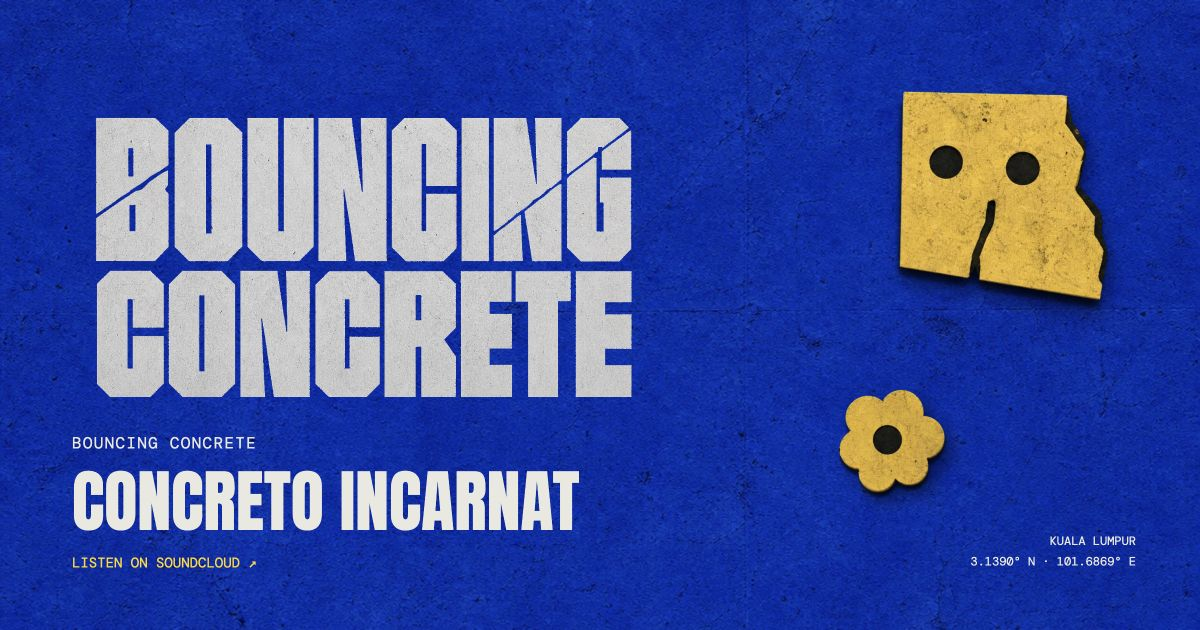
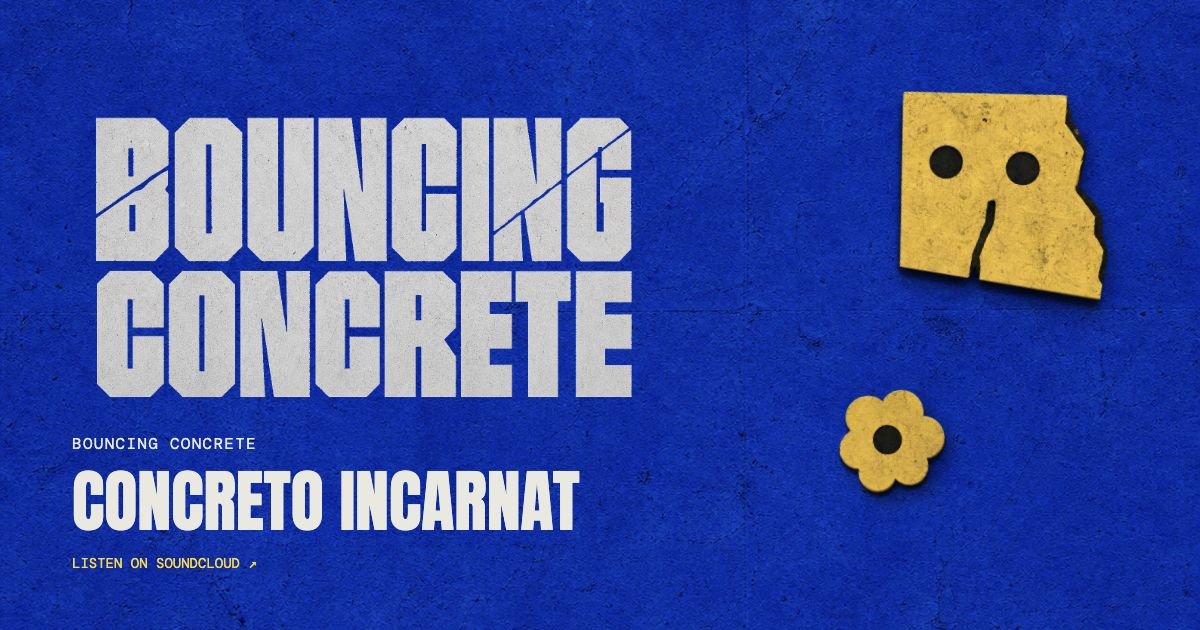
Keep artist location in footer only

diff --git a/scripts/social-card.html b/scripts/social-card.html
@@ -12,9 +12,8 @@
     .face{position:absolute;right:6%;top:9%;width:24%;transform:rotate(12deg);filter:drop-shadow(6px 10px 8px #0007)}
     .flower{position:absolute;right:19%;bottom:16%;width:13%;transform:rotate(-10deg);filter:drop-shadow(6px 10px 8px #0007)}
     .copy{position:absolute;left:72px;bottom:58px;z-index:2}.copy p{font-size:16px;letter-spacing:.08em;margin:0 0 14px}.copy h1{font-family:Anton,sans-serif;font-weight:400;text-transform:uppercase;font-size:72px;line-height:1;margin:0}.copy span{display:block;font-size:14px;margin-top:18px;color:#ffd900}
-    .location{position:absolute;right:64px;bottom:58px;text-align:right;font-size:12px;line-height:1.7}
-    @media(max-aspect-ratio:1/1){.card{padding:110px 84px}.wordmark{width:100%;max-width:none;margin-top:220px}.face{width:27%;top:7%;right:12%}.flower{width:21%;right:15%;bottom:30%}.copy{left:84px;bottom:300px;margin-bottom:0}.copy p{font-size:24px}.copy h1{font-size:118px}.copy span{font-size:25px}.location{bottom:90px;right:84px;font-size:20px}}
+    @media(max-aspect-ratio:1/1){.card{padding:110px 84px}.wordmark{width:100%;max-width:none;margin-top:220px}.face{width:27%;top:7%;right:12%}.flower{width:21%;right:15%;bottom:30%}.copy{left:84px;bottom:300px;margin-bottom:0}.copy p{font-size:24px}.copy h1{font-size:118px}.copy span{font-size:25px}}
   </style>
 </head>
-<body><main class="card"><img class="wordmark" src="/assets/wordmark-gritty.webp" alt="Bouncing Concrete"><img class="face" src="/assets/ornament-face.webp" alt=""><img class="flower" src="/assets/ornament-flower.webp" alt=""><div class="copy"><p>FEATURED TRACK</p><h1>Funkacaine</h1><span>LISTEN ON SOUNDCLOUD ↗</span></div><div class="location">KUALA LUMPUR<br>3.1390° N · 101.6869° E</div></main><script>const titles = {'funkacaine':'Funkacaine','concreto-incarnat':'Concreto Incarnat'}; const title=titles[new URLSearchParams(location.search).get('track')]; if(title){document.querySelector('h1').textContent=title;document.querySelector('.copy p').textContent='BOUNCING CONCRETE';document.querySelector('h1').style.fontSize='68px';}</script></body>
+<body><main class="card"><img class="wordmark" src="/assets/wordmark-gritty.webp" alt="Bouncing Concrete"><img class="face" src="/assets/ornament-face.webp" alt=""><img class="flower" src="/assets/ornament-flower.webp" alt=""><div class="copy"><p>FEATURED TRACK</p><h1>Funkacaine</h1><span>LISTEN ON SOUNDCLOUD ↗</span></div></main><script>const titles = {'funkacaine':'Funkacaine','concreto-incarnat':'Concreto Incarnat'}; const title=titles[new URLSearchParams(location.search).get('track')]; if(title){document.querySelector('h1').textContent=title;document.querySelector('.copy p').textContent='BOUNCING CONCRETE';document.querySelector('h1').style.fontSize='68px';}</script></body>
 </html>

diff --git a/src/App.jsx b/src/App.jsx
@@ -50,7 +50,7 @@ export function App() {
   const detailOpacity = reducedMotion ? 0 : progress < .5 ? 0 : Math.min(1, (progress - .5) / .1)
   return <main id="top">
     <a className="skip-link" href="#music">Skip to music</a>
-    <h1 className="sr-only">Bouncing Concrete — music from Kuala Lumpur</h1>
+    <h1 className="sr-only">Bouncing Concrete — music and releases</h1>
     <section className="scroll-film" ref={hero} aria-label="Bouncing Concrete film">
       <div className="film-sticky">
         <video ref={video} muted playsInline preload="metadata" poster="/assets/scene-plate.webp" aria-hidden="true">
@@ -75,12 +75,11 @@ export function App() {
           <img className="poster-symbol globe" src="/assets/symbol-globe.webp" alt=""/>
           <i className="poster-checker" aria-hidden="true"/>
           <div className="poster-index"><img className="mark-glyph" src="/assets/mark-glyph-06-sideways.webp" alt=""/><img className="mark-hatch" src="/assets/mark-hatch-alpha.webp" alt=""/><b>{siteContent.poster.sequence}</b></div>
-          <span className="poster-coordinates">{siteContent.poster.coordinates[0]}<br/>{siteContent.poster.coordinates[1]}</span>
           <span className="poster-arrow" aria-hidden="true">↓</span>
         </article>
         <div className="video-ornaments" style={{ opacity: detailOpacity }}><b>BUILD. BOUNCE. BREAK.</b><i/></div>
         <div className="hero-release" style={{ opacity: posterOpacity, pointerEvents: posterOpacity > .5 ? 'auto' : 'none' }}>
-          <span>FROM KUALA LUMPUR<br/><strong>{featured.title}</strong></span>
+          <span>FEATURED TRACK<br/><strong>{featured.title}</strong></span>
           <a className="primary-link" href="#music" onClick={() => setPlayRequest(value => value + 1)}>Play {featured.title} <span aria-hidden="true">↗</span></a>
         </div>
       </div>

diff --git a/src/content.js b/src/content.js
@@ -5,7 +5,7 @@ export const siteContent = {
   bandcamp: 'https://bouncingconcrete.bandcamp.com/',
   bookingEmail: 'bouncingconcrete@gmail.com',
   featuredSlug: 'funkacaine',
-  poster: { sequence: '01', coordinates: ['3.1390° N', '101.6869° E'] },
+  poster: { sequence: '01' },
   releases: [
     {
       slug: 'funkacaine', title: 'Funkacaine', playlistIndex: 0,
@@ -19,7 +19,7 @@ export const siteContent = {
     },
   ],
   statement: 'Machines. Physical rhythm. Music for a world still under construction.',
-  bio: 'Bouncing Concrete is a music project from Kuala Lumpur, bringing machines, physical rhythm and a tactile visual world together. Its concrete character moves through the city, leaves damage in its wake and ends up confined. Behind the cell wall, the music continues.',
+  bio: 'Bouncing Concrete brings machines, physical rhythm and a tactile visual world together. Its concrete character moves through the city, leaves damage in its wake and ends up confined. Behind the cell wall, the music continues.',
   shows: [],
   socialLinks: [],
   footer: 'Bouncing Concrete MMXXVI · All Rights Reserved.',

diff --git a/index.html b/index.html
@@ -4,10 +4,10 @@
     <meta charset="UTF-8" />
     <meta name="viewport" content="width=device-width, initial-scale=1.0" />
     <meta name="theme-color" content="#1736df" />
-    <title>Bouncing Concrete — Music from Kuala Lumpur</title>
+    <title>Bouncing Concrete — Music & Releases</title>
     <meta name="description" content="Machines. Physical rhythm. Music for a world still under construction. Listen to Bouncing Concrete, explore the tracks and get in touch for bookings." />
     <meta property="og:type" content="website" />
-    <meta property="og:title" content="Bouncing Concrete — Music from Kuala Lumpur" />
+    <meta property="og:title" content="Bouncing Concrete — Music & Releases" />
     <meta property="og:description" content="Music for a world still under construction. Start with Funkacaine." />
     <meta property="og:image" content="/assets/bouncing-concrete-share.jpg" />
     <meta property="og:image:width" content="1200" />

diff --git a/AGENTS.md b/AGENTS.md
@@ -29,3 +29,7 @@ Build app UI in `src/`. Keep `.openai/hosting.json`, `worker/index.js`, `scripts
 - Carry the damage-to-confinement narrative into the music section, with the character following the pointer behind a recessed cell slit.
 - Improve release discovery, player usability, responsive composition, factual content, real destinations, loading, and accessibility within the existing visual identity.
 - Keep the website local during refinement.
+
+## Artist positioning
+
+- Mention Kuala Lumpur only in the website footer. Keep city names and location coordinates out of the hero, bio, page titles, metadata and release-sharing artwork. Let the music, character and visual world lead.
